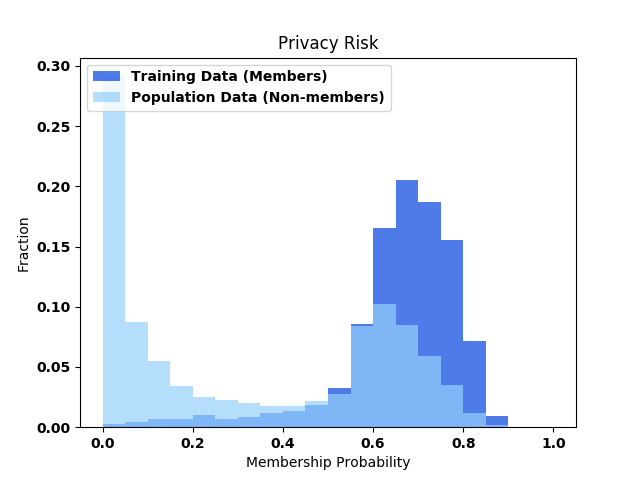
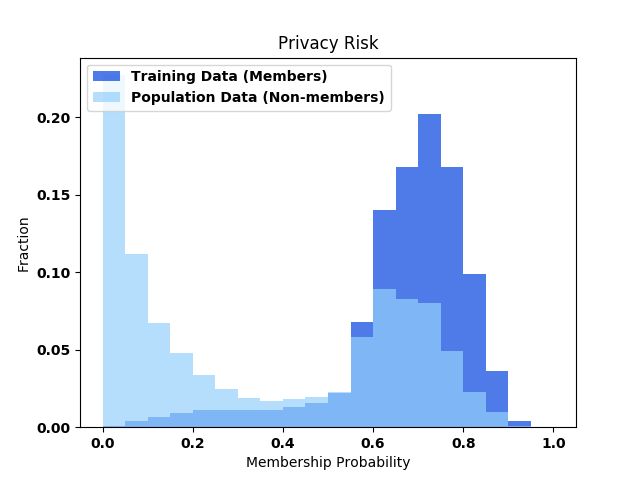
Use all data for visualizations

diff --git a/ml_privacy_meter/attack/meminf.py b/ml_privacy_meter/attack/meminf.py
@@ -492,7 +492,7 @@ class initialize(object):
                          100 * best_accuracy)
 
     def test_attack(self):
-        mtrainset, nmtrainset, _, _ = self.train_datahandler.load_train()
+        mtrainset, nmtrainset, _, _ = self.train_datahandler.load_vis(2048)
         model = self.target_train_model
         mpreds = []
         mlab = []
@@ -500,6 +500,9 @@ class initialize(object):
         nmlab = []
         mfeat = []
         nmfeat = []
+        mtrue = []
+        nmtrue = []
+
         mgradnorm, nmgradnorm = [], []
         path = 'logs/plots'
         if not os.path.exists(path):
@@ -515,8 +518,8 @@ class initialize(object):
                 mlab.extend(mlabels)
                 mfeat.extend(mfeatures)
                 mgradnorm.extend(mgradientnorm)
-
-            memtrue = tf.ones((len(mpreds), ))
+                memtrue = np.ones(moutputs.shape)
+                mtrue.extend(memtrue)
 
             for(nmfeatures, nmlabels) in nmtrainset:
                 # Getting outputs of forward pass of attack model
@@ -529,11 +532,11 @@ class initialize(object):
                 nmlab.extend(nmlabels)
                 nmfeat.extend(nmfeatures)
                 nmgradnorm.extend(nmgradientnorm)
+                nonmemtrue = np.zeros(nmoutputs.shape)
+                nmtrue.extend(nonmemtrue)
 
-            nonmemtrue = tf.zeros((len(nmoutputs), ))
-
-            target = tf.concat((memtrue, nonmemtrue), 0)
-            probs = tf.concat((moutputs, nmoutputs), 0)
+            target = tf.concat((mtrue, nmtrue), 0)
+            probs = tf.concat((mpreds, nmpreds), 0)
 
         font = {
             'weight': 'bold',
@@ -626,6 +629,5 @@ class initialize(object):
 
         np.save('logs/member_probs.npy', np.array(mpreds))
         np.save('logs/nonmember_probs.npy', np.array(nmpreds))
-        print('LEN2', len(mpreds), len(nmpreds))
 
         compare_models()

diff --git a/ml_privacy_meter/utils/attack_data.py b/ml_privacy_meter/utils/attack_data.py
@@ -136,7 +136,7 @@ class attack_data:
 
         return mtrain, nmtrain, nm_features, nm_labels
 
-    def load_vis(self):
+    def load_vis(self, batch_size=256):
         """
         Returns a tf.data.Dataset object for visualization testing
         """
@@ -170,8 +170,8 @@ class attack_data:
         mtrain = get_tfdataset(m_features, m_labels)
         nmtrain = get_tfdataset(nm_features, nm_labels)
 
-        mtrain = mtrain.batch(self.batch_size)
-        nmtrain = nmtrain.batch(self.batch_size)
+        mtrain = mtrain.batch(batch_size)
+        nmtrain = nmtrain.batch(batch_size)
 
         return mtrain, nmtrain, nm_features, nm_labels
 

diff --git a/README.md b/README.md
@@ -133,7 +133,7 @@ The user can also use privacy risk histograms for each output class.
 
 ![Privacy Risk - Class 15](images/privacy_risk_label15.png)  ![Privacy Risk - Class 45](images/privacy_risk_label45.png) 
 
-The membership probability predictions by the model are also saved as numpy files in the `logs` folder.
+The membership probability predictions for training set member data and population set non-member data by the model are also saved as numpy files in the `logs` folder as `member_probs.npy` and `nonmember_probs.npy`. They correspond to the features and labels in `m_features.npy`, `m_labels.npy` and `nm_features.npy` and `nm_labels.npy` respectively.
 
 ## References:
 
